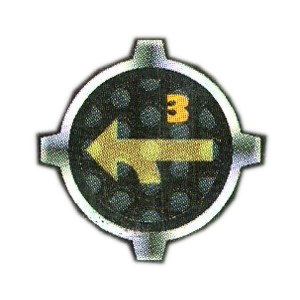
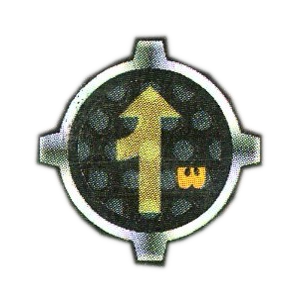
- Fehlende Bilder Hinzugefügt - Helligkeit mancher Bilder angepasst für die Einheitlichkeit - Zentrierung mancher Bilder verändert, vorallem bei den Fließbändern bedeutsam - Fehlende Bilder in JSON Datei implementiert - ConveyorBeltBehaviour mit den neuen Pfeilen geupdated und überarbeitet

Changed region(s): [[0.09, 0.12, 0.9, 0.9]]

diff --git a/server/src/main/java/de/uol/swp/server/gamelogic/MapBuilder.java b/server/src/main/java/de/uol/swp/server/gamelogic/MapBuilder.java
@@ -164,8 +164,8 @@ public final class MapBuilder {
                 x,
                 y,
                 new WallBehaviour(null, map, new Position(x, y), CardinalDirection.West),
-                new PusherBehaviour(
-                        null, map, new Position(x, y), new int[]{2, 4}, CardinalDirection.East));
+                new PusherBehaviour2(
+                        null, map, new Position(x, y), new int[]{2, 4}, CardinalDirection.West));
         x = 6;
         generateBlock(
                 map,
@@ -238,7 +238,7 @@ public final class MapBuilder {
                 x,
                 y,
                 new WallBehaviour(null, map, new Position(x, y), CardinalDirection.South),
-                new PusherBehaviour(
+                new PusherBehaviour2(
                         null, map, new Position(x, y), new int[]{2, 4}, CardinalDirection.South));
 
         x = 7;
@@ -279,7 +279,7 @@ public final class MapBuilder {
                         null,
                         map,
                         new Position(x, y),
-                        ArrowType.TurnRight,
+                        ArrowType.StraightTurnLeft,
                         CardinalDirection.East));
         x = 1;
         generateBlock(
@@ -290,7 +290,7 @@ public final class MapBuilder {
                         null,
                         map,
                         new Position(x, y),
-                        ArrowType.TurnLeft,
+                        ArrowType.TurnRight,
                         CardinalDirection.South));
 
         x = 2;
@@ -318,7 +318,7 @@ public final class MapBuilder {
                         null,
                         map,
                         new Position(x, y),
-                        ArrowType.StraightTurnLeft,
+                        ArrowType.Straight,
                         CardinalDirection.North));
 
         x = 11;
@@ -425,7 +425,7 @@ public final class MapBuilder {
                 x,
                 y,
                 new WallBehaviour(null, map, new Position(x, y), CardinalDirection.West),
-                new PusherBehaviour(
+                new PusherBehaviour2(
                         null, map, new Position(x, y), new int[]{1,3,5}, CardinalDirection.West));
 
         x = 10;
@@ -450,7 +450,7 @@ public final class MapBuilder {
                 x,
                 y,
                 new WallBehaviour(null, map, new Position(x, y), CardinalDirection.East),
-                new PusherBehaviour(null, map, new Position(x, y), new int[]{1,3,5}, CardinalDirection.East));
+                new PusherBehaviour2(null, map, new Position(x, y), new int[]{1,3,5}, CardinalDirection.East));
 
         x = 3;
         generateBlock(map, x, y);
@@ -474,7 +474,7 @@ public final class MapBuilder {
                 x,
                 y,
                 new WallBehaviour(null, map, new Position(x, y), CardinalDirection.West),
-                new PusherBehaviour(null, map, new Position(x, y), new int[]{1,3,5}, CardinalDirection.West));
+                new PusherBehaviour2(null, map, new Position(x, y), new int[]{1,3,5}, CardinalDirection.West));
 
         x = 10;
         generateBlock(map, x, y,
@@ -581,7 +581,7 @@ public final class MapBuilder {
         x = 6;
         generateBlock(map, x, y,
                 new WallBehaviour(null, map, new Position(x, y), CardinalDirection.North),
-                new PusherBehaviour(null, map, new Position(x, y), new int[]{3}, CardinalDirection.North));
+                new PusherBehaviour2(null, map, new Position(x, y), new int[]{3}, CardinalDirection.North));
 
 
         x = 7;

diff --git a/server/src/main/java/de/uol/swp/server/gamelogic/tiles/ConveyorBeltBehaviour.java b/server/src/main/java/de/uol/swp/server/gamelogic/tiles/ConveyorBeltBehaviour.java
@@ -123,35 +123,34 @@ public class ConveyorBeltBehaviour extends AbstractTileBehaviour {
                 break;
             case StraightTurnRight:
                 if(this instanceof ExpressConveyorBeltBehaviour){
-                    arrowType = 27;
-                    hasSecondArrow = true;
-                    secondArrowType = 28;
+                    arrowType = 31;
                 }
                 else {
-                    arrowType = 10;
-                    hasSecondArrow = true;
-                    secondArrowType = 11;
+                    arrowType = 15;
                 }
                 break;
             case StraightTurnLeft:
                 if(this instanceof ExpressConveyorBeltBehaviour){
-                    arrowType = 27;
-                    hasSecondArrow = true;
-                    secondArrowType = 29;
+                    arrowType = 30;
                 }
                 else {
-                    arrowType = 10;
-                    hasSecondArrow = true;
-                    secondArrowType = 12;
+                    arrowType = 14;
+                }
+                break;
+
+            case TTurn:
+                if(this instanceof ExpressConveyorBeltBehaviour){
+                    arrowType = 53;
+                }
+                else {
+                    arrowType = 52;
                 }
                 break;
 
             default:
                 throw new IllegalStateException("Unexpected value: " + this.arrowType + " or ");
         }
-        if(hasSecondArrow){
-            return new ArrayList<>(Arrays.asList( new int[] {type, rotation}, new int[] {arrowType, rotation}, new int[] {secondArrowType, rotation}));
-        }
+
         return new ArrayList<>(Arrays.asList( new int[] {type, rotation}, new int[] {arrowType, rotation}));
     }
 }

diff --git a/server/src/main/java/de/uol/swp/server/gamelogic/GameService.java b/server/src/main/java/de/uol/swp/server/gamelogic/GameService.java
@@ -240,10 +240,17 @@ public class GameService extends AbstractService {
      */
     @Subscribe
     public void onGetMapDataRequest(GetMapDataRequest msg) {
+
+
         System.out.println("Get Map Data server");
         Optional<Game> game = getGame(msg.getLobby().getLobbyID());
         if(game.isPresent()){
             Block[][] board = game.get().getBoard();
+
+            if(board == null){
+                throw new IllegalStateException("Board is nicht initialisiert");
+            }
+
             BlockDTO[][] boardDTOs= new BlockDTO[board.length][board[0].length];
 
             for(int row= 0; row< board.length; row++){

diff --git a/server/src/main/java/de/uol/swp/server/gamelogic/tiles/PusherBehaviour.java b/server/src/main/java/de/uol/swp/server/gamelogic/tiles/PusherBehaviour.java
@@ -30,6 +30,18 @@ public class PusherBehaviour extends AbstractTileBehaviour {
         super(robotStates, board, blockPos);
         this.activeInProgramSteps = activeInProgramSteps;
         this.direction = direction;
+
+        /*
+        if(activeInProgramSteps.length == 3){
+            this.type = 42;
+        }
+        else if (activeInProgramSteps.length == 2){
+            this.type = 43;
+        }
+        else{
+            this.type = activeInProgramSteps[0] + 38;
+        }
+        */
     }
 
     /**

diff --git a/server/src/main/java/de/uol/swp/server/gamelogic/tiles/enums/ArrowType.java b/server/src/main/java/de/uol/swp/server/gamelogic/tiles/enums/ArrowType.java
@@ -10,5 +10,7 @@ public enum ArrowType {
     TurnRight,
     TurnLeft,
     StraightTurnRight,
-    StraightTurnLeft
+    StraightTurnLeft,
+
+    TTurn
 }
